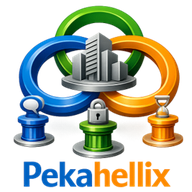
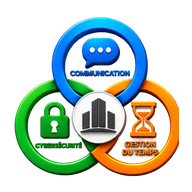
Add files via upload

diff --git a/index.html b/index.html
@@ -10,13 +10,14 @@
   <link rel="preconnect" href="https://fonts.googleapis.com" />
   <link rel="preconnect" href="https://fonts.gstatic.com" crossorigin />
   <link href="https://fonts.googleapis.com/css2?family=Poppins:wght@400;500;600;700;800&display=swap" rel="stylesheet" />
-  <link rel="stylesheet" href="style.css?v=0.5-f.5" />
+  <link rel="stylesheet" href="style.css?v=0.5-f.6" />
   <link rel="manifest" href="manifest.webmanifest">
   <link rel="apple-touch-icon" href="icons/icon-192.png">
+  <link rel="icon" type="image/png" href="favicon.png">
 </head>
 <body>
 
-  <!-- V0.5-F.5 — Splash de démarrage animé -->
+  <!-- V0.5-F.6 — Splash de démarrage animé -->
   <div id="startup-splash" class="startup-splash" aria-hidden="true">
     <div class="startup-splash-bg"></div>
     <img id="startup-splash-logo" src="logo.png" alt="" class="startup-splash-logo" />
@@ -612,7 +613,7 @@
   </nav>
 
   <script src="https://cdn.jsdelivr.net/npm/@supabase/supabase-js@2.112.3"></script>
-  <!-- V0.5-F.5 — Agrandissement du logo du header -->
+  <!-- V0.5-F.6 — Agrandissement du logo du header -->
   <div id="logo-lightbox" class="logo-lightbox hidden" role="dialog" aria-modal="true"
     aria-label="Logo Pekahellix agrandi">
     <button type="button" id="logo-lightbox-close" class="logo-lightbox-close"
@@ -620,12 +621,11 @@
     <div class="logo-lightbox-content">
       <img src="logo-header.png" alt="Pekahellix — 3 piliers pour accompagner votre proximité"
         class="logo-lightbox-image" />
-      <p class="logo-lightbox-tagline">3 piliers pour accompagner votre proximité</p>
     </div>
   </div>
 
   <script src="config.js"></script>
-  <script src="script.js?v=0.5-f.5"></script>
+  <script src="script.js?v=0.5-f.6"></script>
 
 <script>
 if ('serviceWorker' in navigator) {

diff --git a/style.css b/style.css
@@ -796,7 +796,7 @@ html, body { height: 100%; font-family: "Poppins", "Segoe UI", Arial, sans-serif
   }
 
   .os-topbar-left { min-width: 0; }
-  .topbar-logo { width: min(168px, 100%); height: 50px; object-fit: contain; object-position: left center; }
+  .topbar-logo { width: min(182px, 100%); height: 54px; object-fit: contain; object-position: left center; }
   .os-topbar-center { min-width: 0; text-align: center; }
   .os-clock { font-size: 0.72rem; letter-spacing: 0; }
   .os-topbar-right { min-width: 0; gap: 0.4rem; }
@@ -908,7 +908,7 @@ html, body { height: 100%; font-family: "Poppins", "Segoe UI", Arial, sans-serif
 
 @media (max-width: 360px) {
   .os-topbar { grid-template-columns: minmax(104px, 1fr) auto minmax(88px, 1fr); padding-left: 0.5rem; padding-right: 0.5rem; gap: 0.3rem; }
-  .topbar-logo { width: min(146px, 100%); height: 46px; }
+  .topbar-logo { width: min(154px, 100%); height: 48px; }
   .os-clock { font-size: 0.66rem; }
   .os-username { max-width: 58px; font-size: 0.66rem; }
   .os-logout-btn { width: 38px; height: 38px; flex-basis: 38px; }

diff --git a/script.js b/script.js
@@ -1,4 +1,4 @@
-window.PEKAHELLIX_BUILD = "0.5-F.5";
+window.PEKAHELLIX_BUILD = "0.5-F.6";
 /* ============================================================
    PEKAHELLIX OS — Gestionnaire unifié des 3 applications
    Apps : Gestion du Temps · Communication · Cybersécurité
@@ -1640,7 +1640,7 @@ function cyberShowResult() {
 }
 
 /* ============================================================
-   V0.5-F.5 — SPLASH LOGO + AGRANDISSEMENT DU LOGO HEADER
+   V0.5-F.6 — SPLASH LOGO + AGRANDISSEMENT DU LOGO HEADER
    ============================================================ */
 function getVisibleAuthLogo() {
   const screens = Array.from(document.querySelectorAll(".os-login"));

diff --git a/sw.js b/sw.js
@@ -1,6 +1,6 @@
-const CACHE = 'pekahellix-v0.5-f.5';
+const CACHE = 'pekahellix-v0.5-f.6';
 const APP_SHELL = [
-  './', './index.html', './style.css?v=0.5-f.5', './script.js?v=0.5-f.5', './config.js', './logo.png', './logo-header.png',
+  './', './index.html', './style.css?v=0.5-f.6', './script.js?v=0.5-f.6', './config.js', './logo.png', './logo-header.png', './favicon.png',
   './manifest.webmanifest', './icons/icon-192.png', './icons/icon-512.png'
 ];
 

diff --git a/CHANGELOG_V0.5-F.6.md b/CHANGELOG_V0.5-F.6.md
@@ -1,0 +1,8 @@
+# V0.5-F.6 — Logo final et favicon
+
+- Intègre le logo final transparent avec PEKA blanc.
+- Utilise cette version pour `logo.png` et `logo-header.png`.
+- Supprime la répétition du slogan dans la lightbox : le slogan n’apparaît plus qu’une fois, dans le logo.
+- Agrandit légèrement le logo du header sur petit écran pour améliorer sa lisibilité.
+- Ajoute un favicon dérivé du symbole seul et renouvelle les icônes PWA 192×192 et 512×512.
+- Incrémente le build et le cache PWA en V0.5-F.6.

diff --git a/README_V0.5-F.6.md b/README_V0.5-F.6.md
@@ -1,0 +1,10 @@
+# Pekahellix OS V0.5-F.6
+
+Version visuelle basée sur V0.5-F.5.
+
+À vérifier après déploiement :
+1. `PEKAHELLIX_BUILD` affiche `0.5-F.6`.
+2. Le logo reste lisible dans le header mobile.
+3. Un clic sur le logo ouvre l’agrandissement sans répétition du slogan.
+4. Le favicon affiche le symbole Pekahellix seul.
+5. Le splash animé fonctionne comme en V0.5-F.5.
